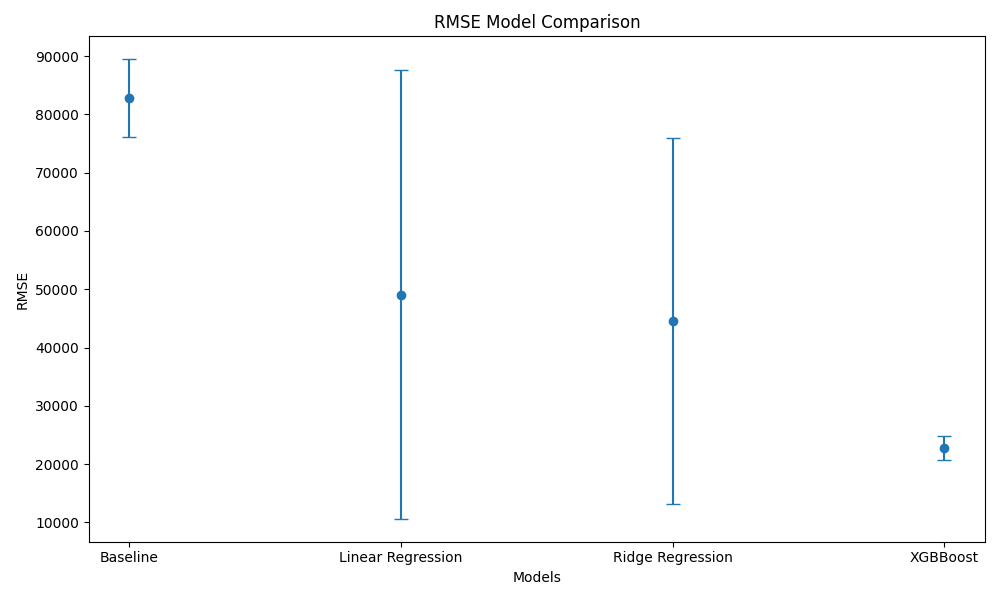
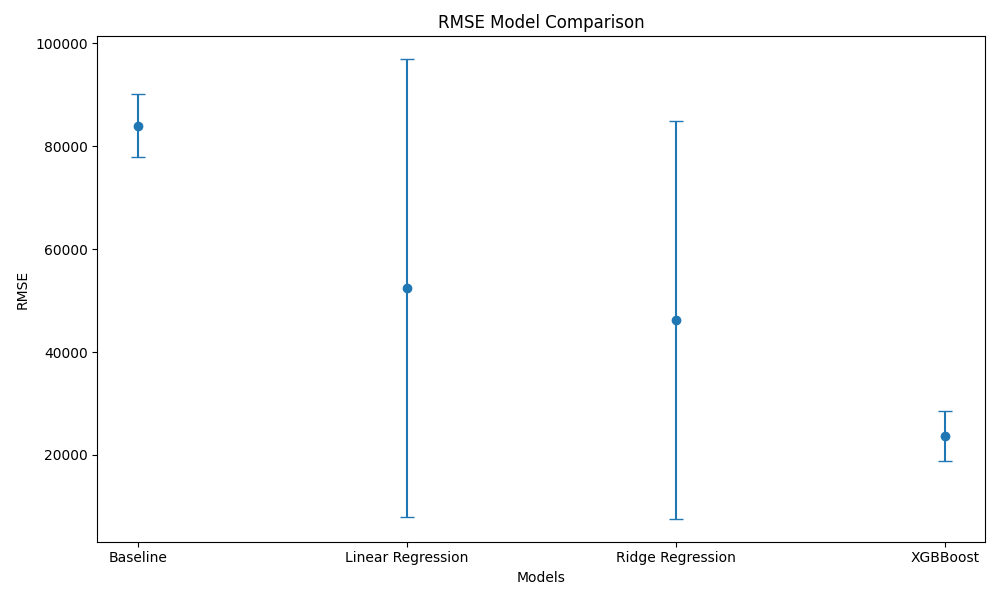
fix: change to 100 seeds

diff --git a/src/train_model.py b/src/train_model.py
@@ -33,7 +33,9 @@ def build_preprocessor(X_train) -> ColumnTransformer:
     return preprocessor
 
 def build_model(preprocessor: ColumnTransformer, estimator: str) -> Pipeline:
-    
+    """
+    Build the model
+    """
     estimators = {
         "lr": LinearRegression(),
         "ridge": RidgeCV(alphas=np.logspace(-5, 5, 100), cv=5),
@@ -57,14 +59,10 @@ def build_model(preprocessor: ColumnTransformer, estimator: str) -> Pipeline:
     
     return model
 
-def train_lr_model(model: Pipeline, X_train, y_train, X_val):
-    model.fit(X_train, y_train)
-
-    val_pred = model.predict(X_val)
-
-    return val_pred
-
 def train_baseline_model(X_train, y_train, X_val):
+    """
+    Train the baseline model
+    """
     baseline = DummyRegressor(strategy="mean")
 
     baseline.fit(X_train, y_train)
@@ -72,8 +70,21 @@ def train_baseline_model(X_train, y_train, X_val):
 
     return baseline_val_pred
 
-def train_xgbboost_model(xgb_model, X_train, y_train, X_val):
+def train_lr_model(model: Pipeline, X_train, y_train, X_val):
+    """
+    Train the linear regression model
+    """
+    model.fit(X_train, y_train)
 
+    val_pred = model.predict(X_val)
+
+    return val_pred
+
+
+def train_xgbboost_model(xgb_model, X_train, y_train, X_val):
+    """
+    Train the XGBoost model
+    """
     xgb_model.fit(X_train, y_train)
     val_pred_xgb = xgb_model.predict(X_val)
 

diff --git a/src/visualise_results.py b/src/visualise_results.py
@@ -5,9 +5,10 @@ import numpy as np
 def visualise_results(eval_metric: str, models):
     """Results from experiment are hardcoded"""
     eval_metrics = {
-        "log-RMSE": ([0.397, 0.137, 0.132, 0.114], [0.022, 0.031, 0.025, 0.014]),
-        "RMSE": ([82806.654, 49095.737, 44545.119, 22690.323], [6654.365, 38480.162, 31372.118, 2070.870]),
-        "R²": ([0.0, 0.873, 0.884, 0.917], [0.0, 0.061, 0.047, 0.016])
+        "log-RMSE": ([0.400, 0.148, 0.140, 0.117], [0.017, 0.036, 0.034, 0.016]),
+        "RMSE": ([84012.745, 52459.632, 46286.658, 23702.250], [6079.122, 44458.101, 38709.845, 4872.018]),
+        "R²": ([0, 0.855, 0.871, 0.913], [0, 0.075, 0.068, 0.021]
+)
     }
 
     if eval_metric not in eval_metrics:

diff --git a/src/main.py b/src/main.py
@@ -14,7 +14,7 @@ df = pd.read_csv(dataset)
 
 df_preprocessed = preprocess_data(df)
 
-num_seeds = 10
+num_seeds = 100
 
 baseline_rmse_log_base_list = []
 baseline_rmse_dollar_base_list = []
@@ -107,4 +107,4 @@ print(f"XGBoost Val R²: {np.mean(xgbboost_r2_val_list):.3f} +/- {np.std(xgbboos
 
 models = ["Baseline", "Linear Regression", "Ridge Regression", "XGBBoost"]
 
-visualise_results("R²", models)
+visualise_results("RMSE", models)
